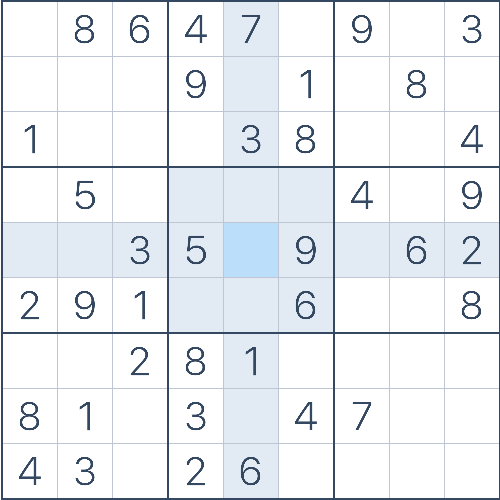
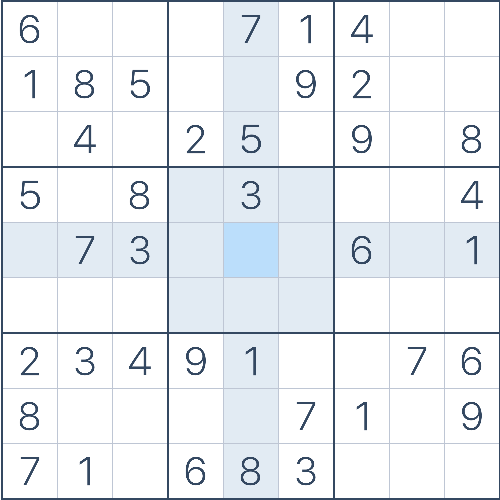
Image can now be read, and split into each square for processing what number is there

diff --git a/main.py b/main.py
@@ -2,6 +2,7 @@ from selenium import webdriver
 from selenium.webdriver.chrome.options import Options
 from selenium.webdriver.common.by import By
 from classes.solve import solve
+from cv2 import cv2
 
 
 def launchBrowser():
@@ -16,11 +17,13 @@ def launchBrowser():
 
 ##Get a screen shot of the board, solve locally, then input the values
 def main():
-    driver = launchBrowser()
-    t=True
-
-    board = driver.find_element(By.CSS_SELECTOR, "div.game")
-    board.click()
+    #
+    #
+    # driver = launchBrowser()
+    # t=True
+    #
+    # board = driver.find_element(By.CSS_SELECTOR, "div.game")
+    # board.click()
     #Test for the solving algorithm
     grid = [[0, 7, 0, 0, 0, 4, 0, 0, 0],
             [3, 0, 0, 7, 0, 0, 0, 9, 5],
@@ -32,13 +35,35 @@ def main():
             [5, 0, 0, 4, 0, 0, 0, 3, 7],
             [0, 0, 0, 0, 0, 0, 1, 0, 0]]
     print(solve(grid))
-    ss = board.screenshot("BoardImage.png")
-    while t:
-        solve(board)
-        x=input("Enter Y:")
-        if x=="Y":
-            t=False
-    driver.quit()
+    # ss = board.screenshot("BoardImage.png")
+    img = cv2.imread("BoardImage.png")
+    imgGray = cv2.cvtColor(img, cv2.COLOR_BGR2GRAY)
+
+    (thresh, blackAndWhiteImg) = cv2.threshold(imgGray, 127, 255, cv2.THRESH_BINARY)
+
+    imH = blackAndWhiteImg.shape[0]
+    imW = blackAndWhiteImg.shape[1]
+
+    y1 = 0
+    M = imH//9
+    N = imW//9
+
+    for y in range(0, imH, M):
+        for x in range(0, imW, N):
+            y1 = y + M
+            x1 = x + N
+            squares = blackAndWhiteImg[y:y+M,x:x+N]
+            cv2.rectangle(blackAndWhiteImg, (x,y), (x1,y1), (255, 255, 255))
+            cv2.imwrite(str(y) + str(x)+".png", squares)
+
+    cv2.imshow("Output", blackAndWhiteImg)
+    cv2.waitKey(0)
+    # while t:
+    #     solve(board)
+    #     x=input("Enter Y:")
+    #     if x=="Y":
+    #         t=False
+    # driver.quit()
 
 
 if __name__ == "__main__":
